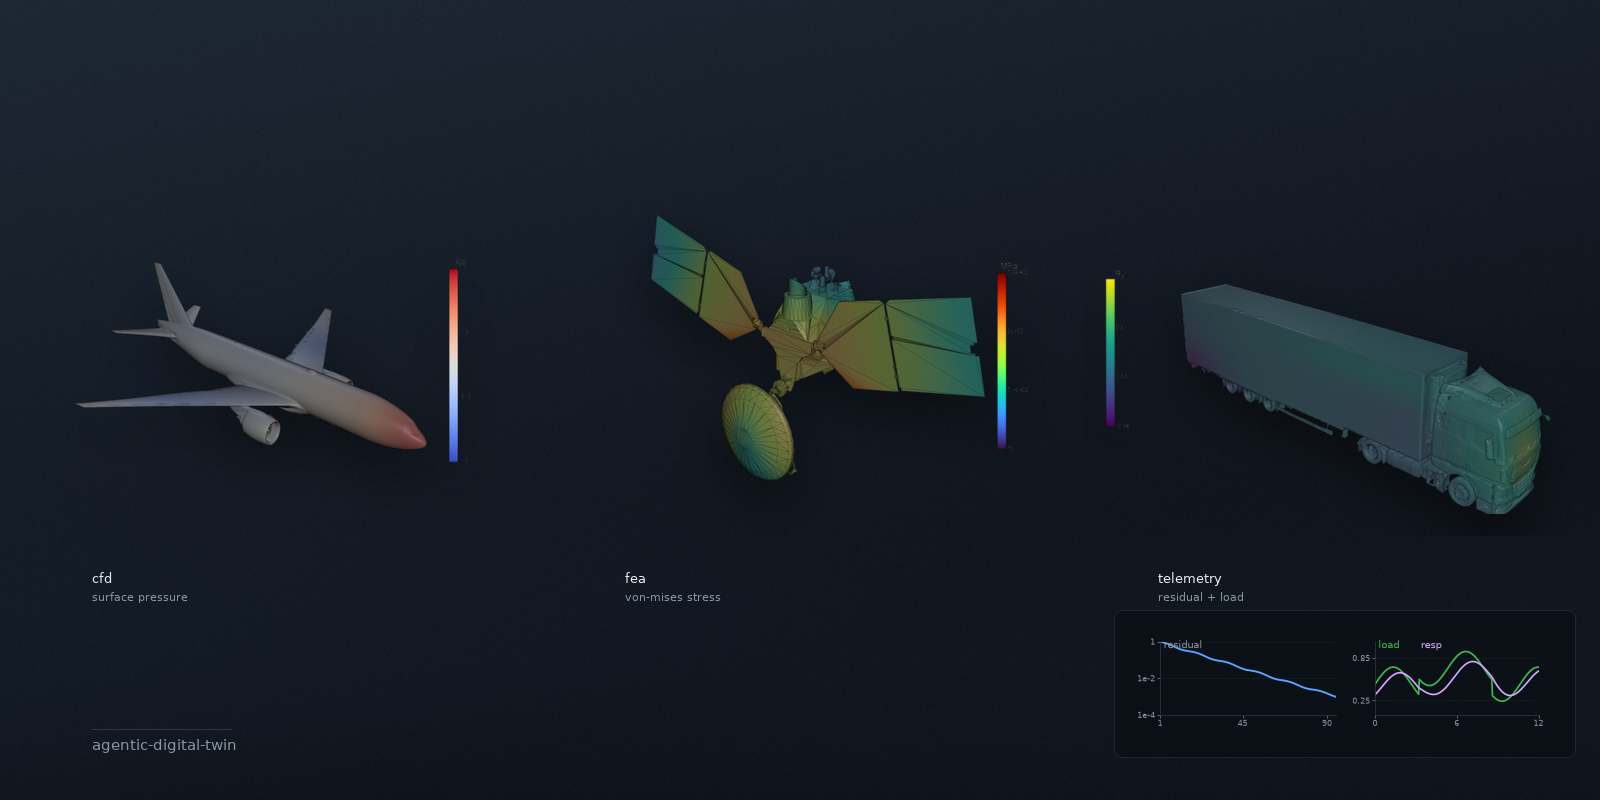
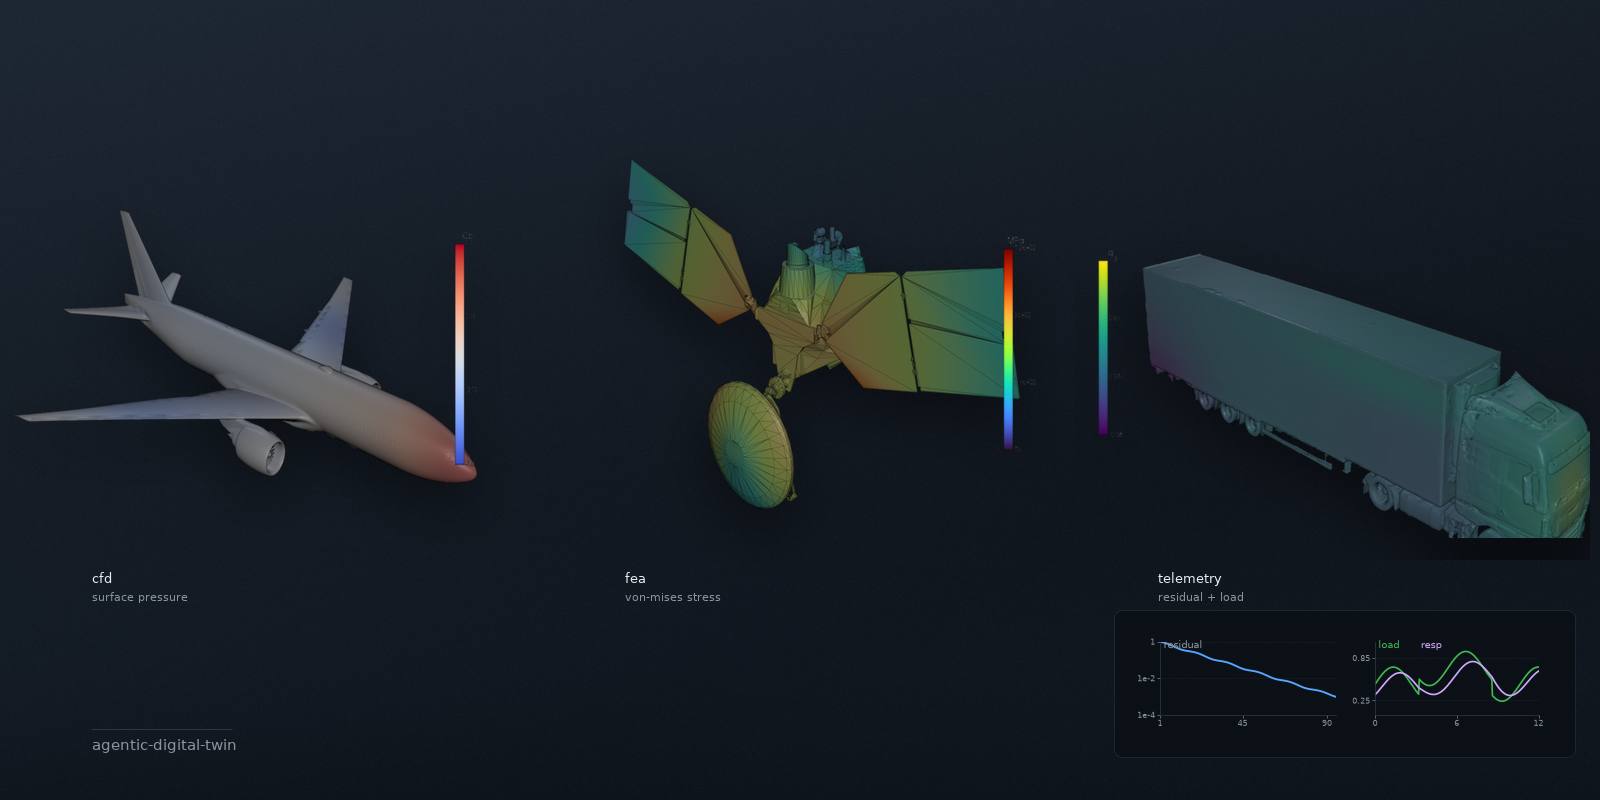
Hero: enlarge models + tighten cameras to fill the empty top space

diff --git a/assets/hero.py b/assets/hero.py
@@ -60,7 +60,7 @@ GRID = "#30363d"
 ACCENT = "#58a6ff"
 MODEL_DIR = Path(__file__).resolve().parent / "models"
 COLUMN_LEFTS = (0, WIDTH // 3, (WIDTH * 2) // 3, WIDTH)
-MODEL_Y = 136
+MODEL_Y = 92
 LABEL_Y = 570
 CHART_PANEL_SIZE = (462, 148)
 
@@ -466,7 +466,7 @@ def render_aircraft() -> tuple[Image.Image, ModelAudit]:
         bar_title="Cp",
         size=(690, 505),
         camera_position=[(5.7, -5.9, 3.0), (0.05, 0.0, 0.05), (0, 0, 1)],
-        zoom=0.86,
+        zoom=1.08,
         bar_pos=(0.865, 0.22),
         bar_height=0.48,
     )
@@ -492,7 +492,7 @@ def render_spacecraft() -> tuple[Image.Image, ModelAudit]:
         bar_title="MPa",
         size=(620, 500),
         camera_position=[(5.3, -5.9, 3.45), (0, 0, 0.05), (0, 0, 1)],
-        zoom=0.98,
+        zoom=1.12,
         bar_pos=(0.895, 0.25),
         bar_height=0.44,
         show_edges=True,
@@ -519,7 +519,7 @@ def render_truck() -> tuple[Image.Image, ModelAudit]:
         bar_title="q",
         size=(620, 440),
         camera_position=[(5.0, -5.1, 2.8), (0.04, 0, 0.28), (0, 0, 1)],
-        zoom=0.90,
+        zoom=1.08,
         bar_pos=(0.045, 0.24),
         bar_height=0.44,
     )
@@ -620,9 +620,9 @@ def composite(rendered: Rendered) -> Image.Image:
     canvas = make_background()
     draw = ImageDraw.Draw(canvas, "RGBA")
 
-    aircraft_size = (500, 420)
-    spacecraft_size = (500, 420)
-    truck_size = (500, 356)
+    aircraft_size = (515, 480)
+    spacecraft_size = (515, 480)
+    truck_size = (515, 420)
     aircraft = resize_render(rendered.aircraft, aircraft_size)
     spacecraft = resize_render(rendered.spacecraft, spacecraft_size)
     truck = resize_render(rendered.truck, truck_size)
@@ -630,7 +630,7 @@ def composite(rendered: Rendered) -> Image.Image:
 
     paste_with_shadow(canvas, aircraft, centered_column_xy(0, aircraft_size))
     paste_with_shadow(canvas, spacecraft, centered_column_xy(1, spacecraft_size))
-    paste_with_shadow(canvas, truck, centered_column_xy(2, truck_size, y=158))
+    paste_with_shadow(canvas, truck, centered_column_xy(2, truck_size, y=118))
 
     chart_panel = Image.new("RGBA", CHART_PANEL_SIZE, (0, 0, 0, 0))
     panel_draw = ImageDraw.Draw(chart_panel, "RGBA")